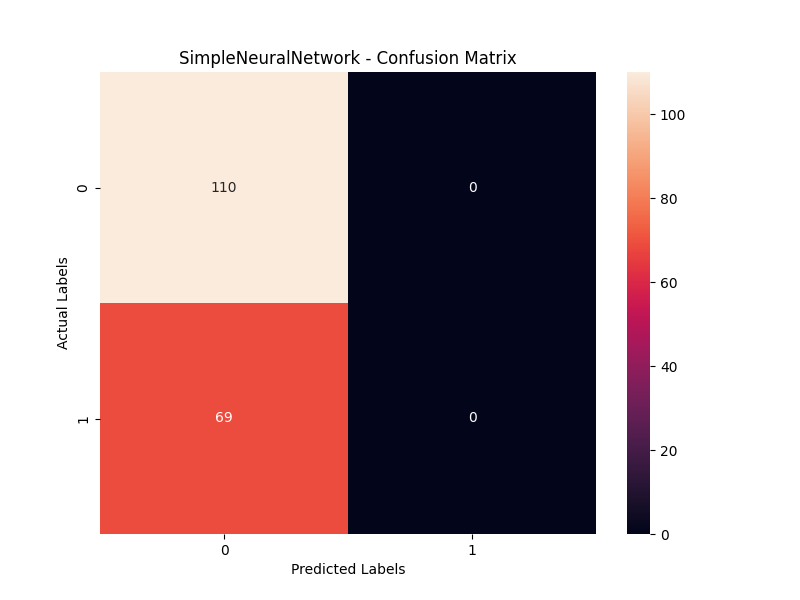
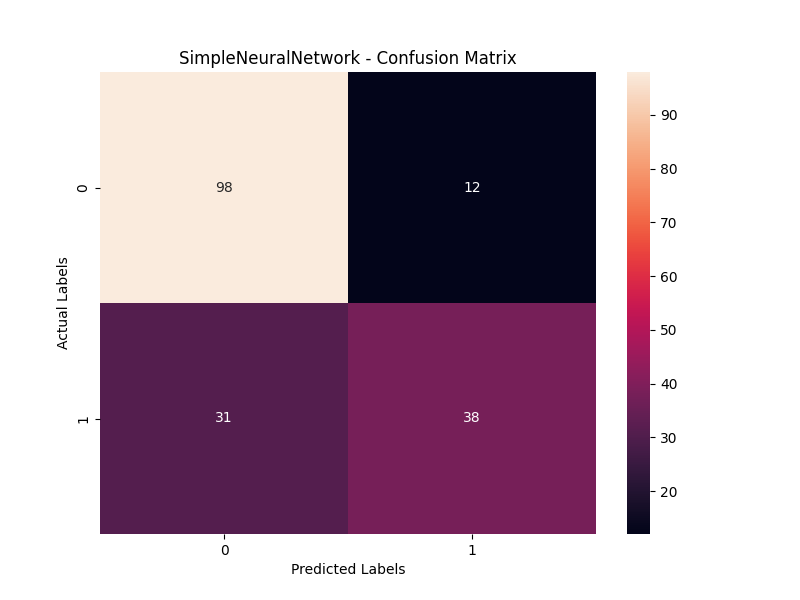
dialed in the SimpleNN for much higher accuracy

diff --git a/src/kaggle_titanic/my_neural_network/simple_nn_main.py b/src/kaggle_titanic/my_neural_network/simple_nn_main.py
@@ -22,11 +22,11 @@ def simple_nn_main(X_train, y_train, X_val, y_val):
     y_train_np = y_train.to_numpy().reshape(1, -1)  # Reshape to (1, number of samples)
 
     # Initialize the neural network
-    nnConfig = NeuralNetworkConfig(layer_dims=[X_train_np.shape[0], 64, 32, 16, 1])
+    nnConfig = NeuralNetworkConfig(layer_dims=[X_train_np.shape[0],35, 1])
     nn = SimpleNeuralNetwork(nnConfig)
 
     # Train the neural network
-    nn.train(X_train_np, y_train_np, iterations=1000)
+    nn.train(X_train_np, y_train_np, iterations=2)
 
     # Predict on validation set
     AL_val, _ = nn.forward_propagation(X_val_np)
